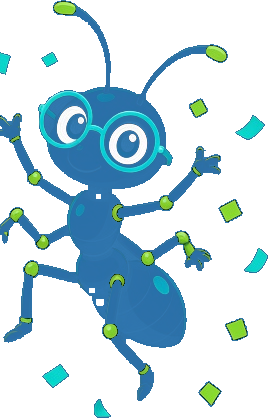
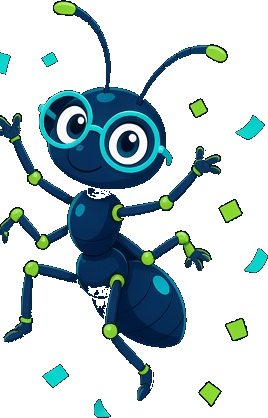
Zecița rămâne desenul original, iar hover-ul nu mai trece pe mov.
PNG-urile furnicuței sunt din nou cele din main. Pe pagină imaginea e opacă, fără mix-blend, cu o aură în spate și un contur subțire. Un test parcurge frontend-ul și oprește hover-urile violet, indigo, lavandă sau fuchsia.

diff --git a/tests/hoverColor.test.js b/tests/hoverColor.test.js
@@ -1,0 +1,120 @@
+import { readdirSync, readFileSync, statSync } from 'node:fs';
+import { join } from 'node:path';
+import { describe, expect, it } from 'vitest';
+
+const FRONTEND = join(import.meta.dirname, '../frontend');
+const SOURCE_EXT = new Set(['.css', '.jsx', '.js']);
+
+function walk(dir, out = []) {
+  for (const name of readdirSync(dir)) {
+    if (name === 'dist' || name === 'node_modules') continue;
+    const path = join(dir, name);
+    if (statSync(path).isDirectory()) walk(path, out);
+    else if (SOURCE_EXT.has(name.slice(name.lastIndexOf('.')))) out.push(path);
+  }
+  return out;
+}
+
+function hsl(r, g, b) {
+  const rn = r / 255;
+  const gn = g / 255;
+  const bn = b / 255;
+  const max = Math.max(rn, gn, bn);
+  const min = Math.min(rn, gn, bn);
+  const light = (max + min) / 2;
+  const delta = max - min;
+  if (!delta) return { h: 0, s: 0, l: light };
+  const sat = light > 0.5 ? delta / (2 - max - min) : delta / (max + min);
+  let hue;
+  if (max === rn) hue = ((gn - bn) / delta) + (gn < bn ? 6 : 0);
+  else if (max === gn) hue = ((bn - rn) / delta) + 2;
+  else hue = ((rn - gn) / delta) + 4;
+  return { h: hue * 60, s: sat, l: light };
+}
+
+function hexBytes(hex) {
+  const raw = hex.replace('#', '');
+  const full = raw.length === 3
+    ? raw.split('').map(ch => ch + ch).join('')
+    : raw.slice(0, 6);
+  if (!/^[0-9a-f]{6}$/i.test(full)) return null;
+  return [
+    parseInt(full.slice(0, 2), 16),
+    parseInt(full.slice(2, 4), 16),
+    parseInt(full.slice(4, 6), 16)
+  ];
+}
+
+/** Indigo, violet, purple, lavender, fuchsia. Teal and navy stay out. */
+function isPurpleFamily(r, g, b) {
+  const { h, s, l } = hsl(r, g, b);
+  if (s < 0.18 || l < 0.08 || l > 0.97) return false;
+  return h >= 230 && h <= 325;
+}
+
+function purpleTokens(text) {
+  const hits = [];
+  const named = /(?:hover:[^\s"'`]*?(?:purple|violet|indigo|fuchsia|lavender)|(?:purple|violet|indigo|fuchsia|lavender)-\d{2,3})/ig;
+  const hex = /#(?:[0-9a-f]{3}|[0-9a-f]{6}|[0-9a-f]{8})\b/ig;
+  const rgb = /rgba?\(\s*(\d{1,3})\s*,\s*(\d{1,3})\s*,\s*(\d{1,3})/ig;
+  let match;
+  while ((match = named.exec(text))) hits.push(match[0]);
+  while ((match = hex.exec(text))) {
+    const bytes = hexBytes(match[0]);
+    if (bytes && isPurpleFamily(...bytes)) hits.push(match[0]);
+  }
+  while ((match = rgb.exec(text))) {
+    const channels = [Number(match[1]), Number(match[2]), Number(match[3])];
+    if (isPurpleFamily(...channels)) hits.push(match[0]);
+  }
+  return hits;
+}
+
+function cssHoverBodies(css) {
+  const bodies = [];
+  const rule = /([^{}]+)\{([^{}]*)\}/g;
+  let match;
+  while ((match = rule.exec(css))) {
+    const selector = match[1];
+    if (!selector.includes(':hover')) continue;
+    if (/hover\s*:\s*none/.test(selector) && !selector.includes(':hover')) continue;
+    bodies.push(match[2]);
+  }
+  return bodies;
+}
+
+describe('hover-ul nu trece pe mov', () => {
+  it('niciun control nu își schimbă hover-ul pe violet, indigo, lavandă sau fuchsia', () => {
+    const problems = [];
+    for (const file of walk(FRONTEND)) {
+      const text = readFileSync(file, 'utf8');
+      const rel = file.slice(FRONTEND.length + 1);
+      if (rel.endsWith('.css')) {
+        for (const body of cssHoverBodies(text)) {
+          const hits = purpleTokens(body);
+          if (hits.length) problems.push(`${rel}: ${hits.join(', ')}`);
+        }
+        continue;
+      }
+      const utility = /hover:[^\s"'`)]+/g;
+      let match;
+      while ((match = utility.exec(text))) {
+        const hits = purpleTokens(match[0]);
+        if (hits.length) problems.push(`${rel}: ${match[0]}`);
+      }
+    }
+    expect(problems).toEqual([]);
+  });
+
+  it('butonul principal rămâne pe culoarea lui, iar cardurile mov își păstrează movul de repaus', () => {
+    const css = readFileSync(join(FRONTEND, 'styles.css'), 'utf8');
+    expect(css).not.toContain('#cbbdff');
+    expect(css).not.toContain('#29285d');
+    expect(css).toContain('.accent-button:hover');
+    expect(css).toMatch(/\.accent-button:hover\s*\{[^}]*background:\s*var\(--primary\)/);
+    expect(css).toContain('.module-violet');
+    const profile = readFileSync(join(FRONTEND, 'screens/ProfileScreen.jsx'), 'utf8');
+    expect(profile).not.toMatch(/hover:bg-\[#29285d\]/);
+    expect(profile).toContain('surface-action');
+  });
+});

diff --git a/frontend/styles.css b/frontend/styles.css
@@ -2052,7 +2052,9 @@ html[data-motion="off"] *::after {
   aspect-ratio: auto;
   object-fit: contain;
   background: transparent;
-  filter: drop-shadow(0 0 1.5px rgba(186, 230, 253, .9)) drop-shadow(0 10px 16px rgba(8, 20, 42, .28));
+  opacity: 1;
+  mix-blend-mode: normal;
+  filter: drop-shadow(0 0 1px rgba(255, 255, 255, .55)) drop-shadow(0 0 10px rgba(94, 234, 212, .35));
 }
 .mascota-shine,
 .mascota-blink { position: absolute; z-index: 2; pointer-events: none; }
@@ -2063,7 +2065,7 @@ html[data-motion="off"] *::after {
   height: var(--shine-h);
   border-radius: 40%;
   background: linear-gradient(105deg, transparent 18%, rgba(255, 255, 255, .2) 42%, rgba(255, 255, 255, .92) 50%, transparent 64%);
-  mix-blend-mode: soft-light;
+  mix-blend-mode: normal;
   opacity: 0;
   transform: translateX(-40%) skewX(-16deg);
   animation: mascotaShine 5.6s ease-in-out infinite;
@@ -2075,7 +2077,7 @@ html[data-motion="off"] *::after {
   width: var(--lid-w);
   height: var(--lid-h);
   border-radius: 42% 42% 48% 48%;
-  background: #0b4f86;
+  background: #10284a;
   transform: scaleY(0);
   transform-origin: center top;
   animation: mascotaBlink 5.4s ease-in-out infinite;
@@ -2140,10 +2142,10 @@ html[data-motion="off"] *::after {
   --shine-w: 42%;
   --shine-h: 16%;
 }
-.is-somnoros .mascota { filter: saturate(.8) brightness(.92) drop-shadow(0 0 1.5px rgba(186, 230, 253, .9)); }
+.is-somnoros .mascota { filter: saturate(.8) brightness(.92) drop-shadow(0 0 1px rgba(255, 255, 255, .55)) drop-shadow(0 0 10px rgba(94, 234, 212, .35)); }
 .is-somnoros .mascota-figure { animation-duration: 7.2s; }
 .is-somnoros .mascota-blink i { animation-duration: 8s; }
-.is-trist-bland .mascota { filter: saturate(.65) drop-shadow(0 0 1.5px rgba(186, 230, 253, .9)); }
+.is-trist-bland .mascota { filter: saturate(.65) drop-shadow(0 0 1px rgba(255, 255, 255, .55)) drop-shadow(0 0 10px rgba(94, 234, 212, .35)); }
 .is-bucuros .mascota-pop,
 .is-sarbatoare .mascota-pop,
 .mascota-pop.is-succes { animation: mascotaHop 520ms cubic-bezier(.2, .8, .2, 1); }
@@ -2530,10 +2532,12 @@ html[data-resolved-theme="light"] .accent-button:hover {
 html[data-resolved-theme="light"] .mascota,
 html[data-resolved-theme="light"] .is-somnoros .mascota,
 html[data-resolved-theme="light"] .is-trist-bland .mascota {
-  filter: drop-shadow(0 0 1px rgba(8, 20, 42, .55)) drop-shadow(0 8px 14px rgba(8, 20, 42, .16));
+  opacity: 1;
+  mix-blend-mode: normal;
+  filter: drop-shadow(0 0 1px rgba(8, 20, 42, .45)) drop-shadow(0 0 8px rgba(12, 124, 134, .22));
 }
 html[data-resolved-theme="light"] .is-somnoros .mascota {
-  filter: saturate(.8) brightness(.96) drop-shadow(0 0 1px rgba(8, 20, 42, .55));
+  filter: saturate(.8) brightness(.96) drop-shadow(0 0 1px rgba(8, 20, 42, .45)) drop-shadow(0 0 8px rgba(12, 124, 134, .22));
 }
 html[data-resolved-theme="light"] .surface-action:hover {
   filter: brightness(.97);

diff --git a/tests/qaLaunch.test.js b/tests/qaLaunch.test.js
@@ -33,7 +33,7 @@ describe('cont nou, termeni și mesaje de lansare', () => {
 
   it('salvează data și versiunea termenilor doar la conturile noi', async () => {
     const { app } = createApp({ autosave: false });
-    const created = await registerGranted(app, { username: `cu_acord_${Date.now().toString(16)}` });
+    const created = await registerGranted(app, { username: `elevnou${String(Date.now()).slice(-6)}` });
     expect(created.res.status).toBe(201);
     const account = authStore.findByUsername(created.username);
     expect(account.termsVersion).toBe(TERMS_VERSION);
@@ -44,7 +44,7 @@ describe('cont nou, termeni și mesaje de lansare', () => {
       email: uniqueEmail('vechi'),
       password: PASSWORD,
       role: 'student',
-      profile: { username: `cont_vechi_${Date.now().toString(16)}`, class: '6' }
+      profile: { username: `vechi${String(Date.now()).slice(-6)}`, class: '6' }
     });
     expect(legacy.ok).toBe(true);
     expect(legacy.account.termsAcceptedAt).toBeUndefined();
